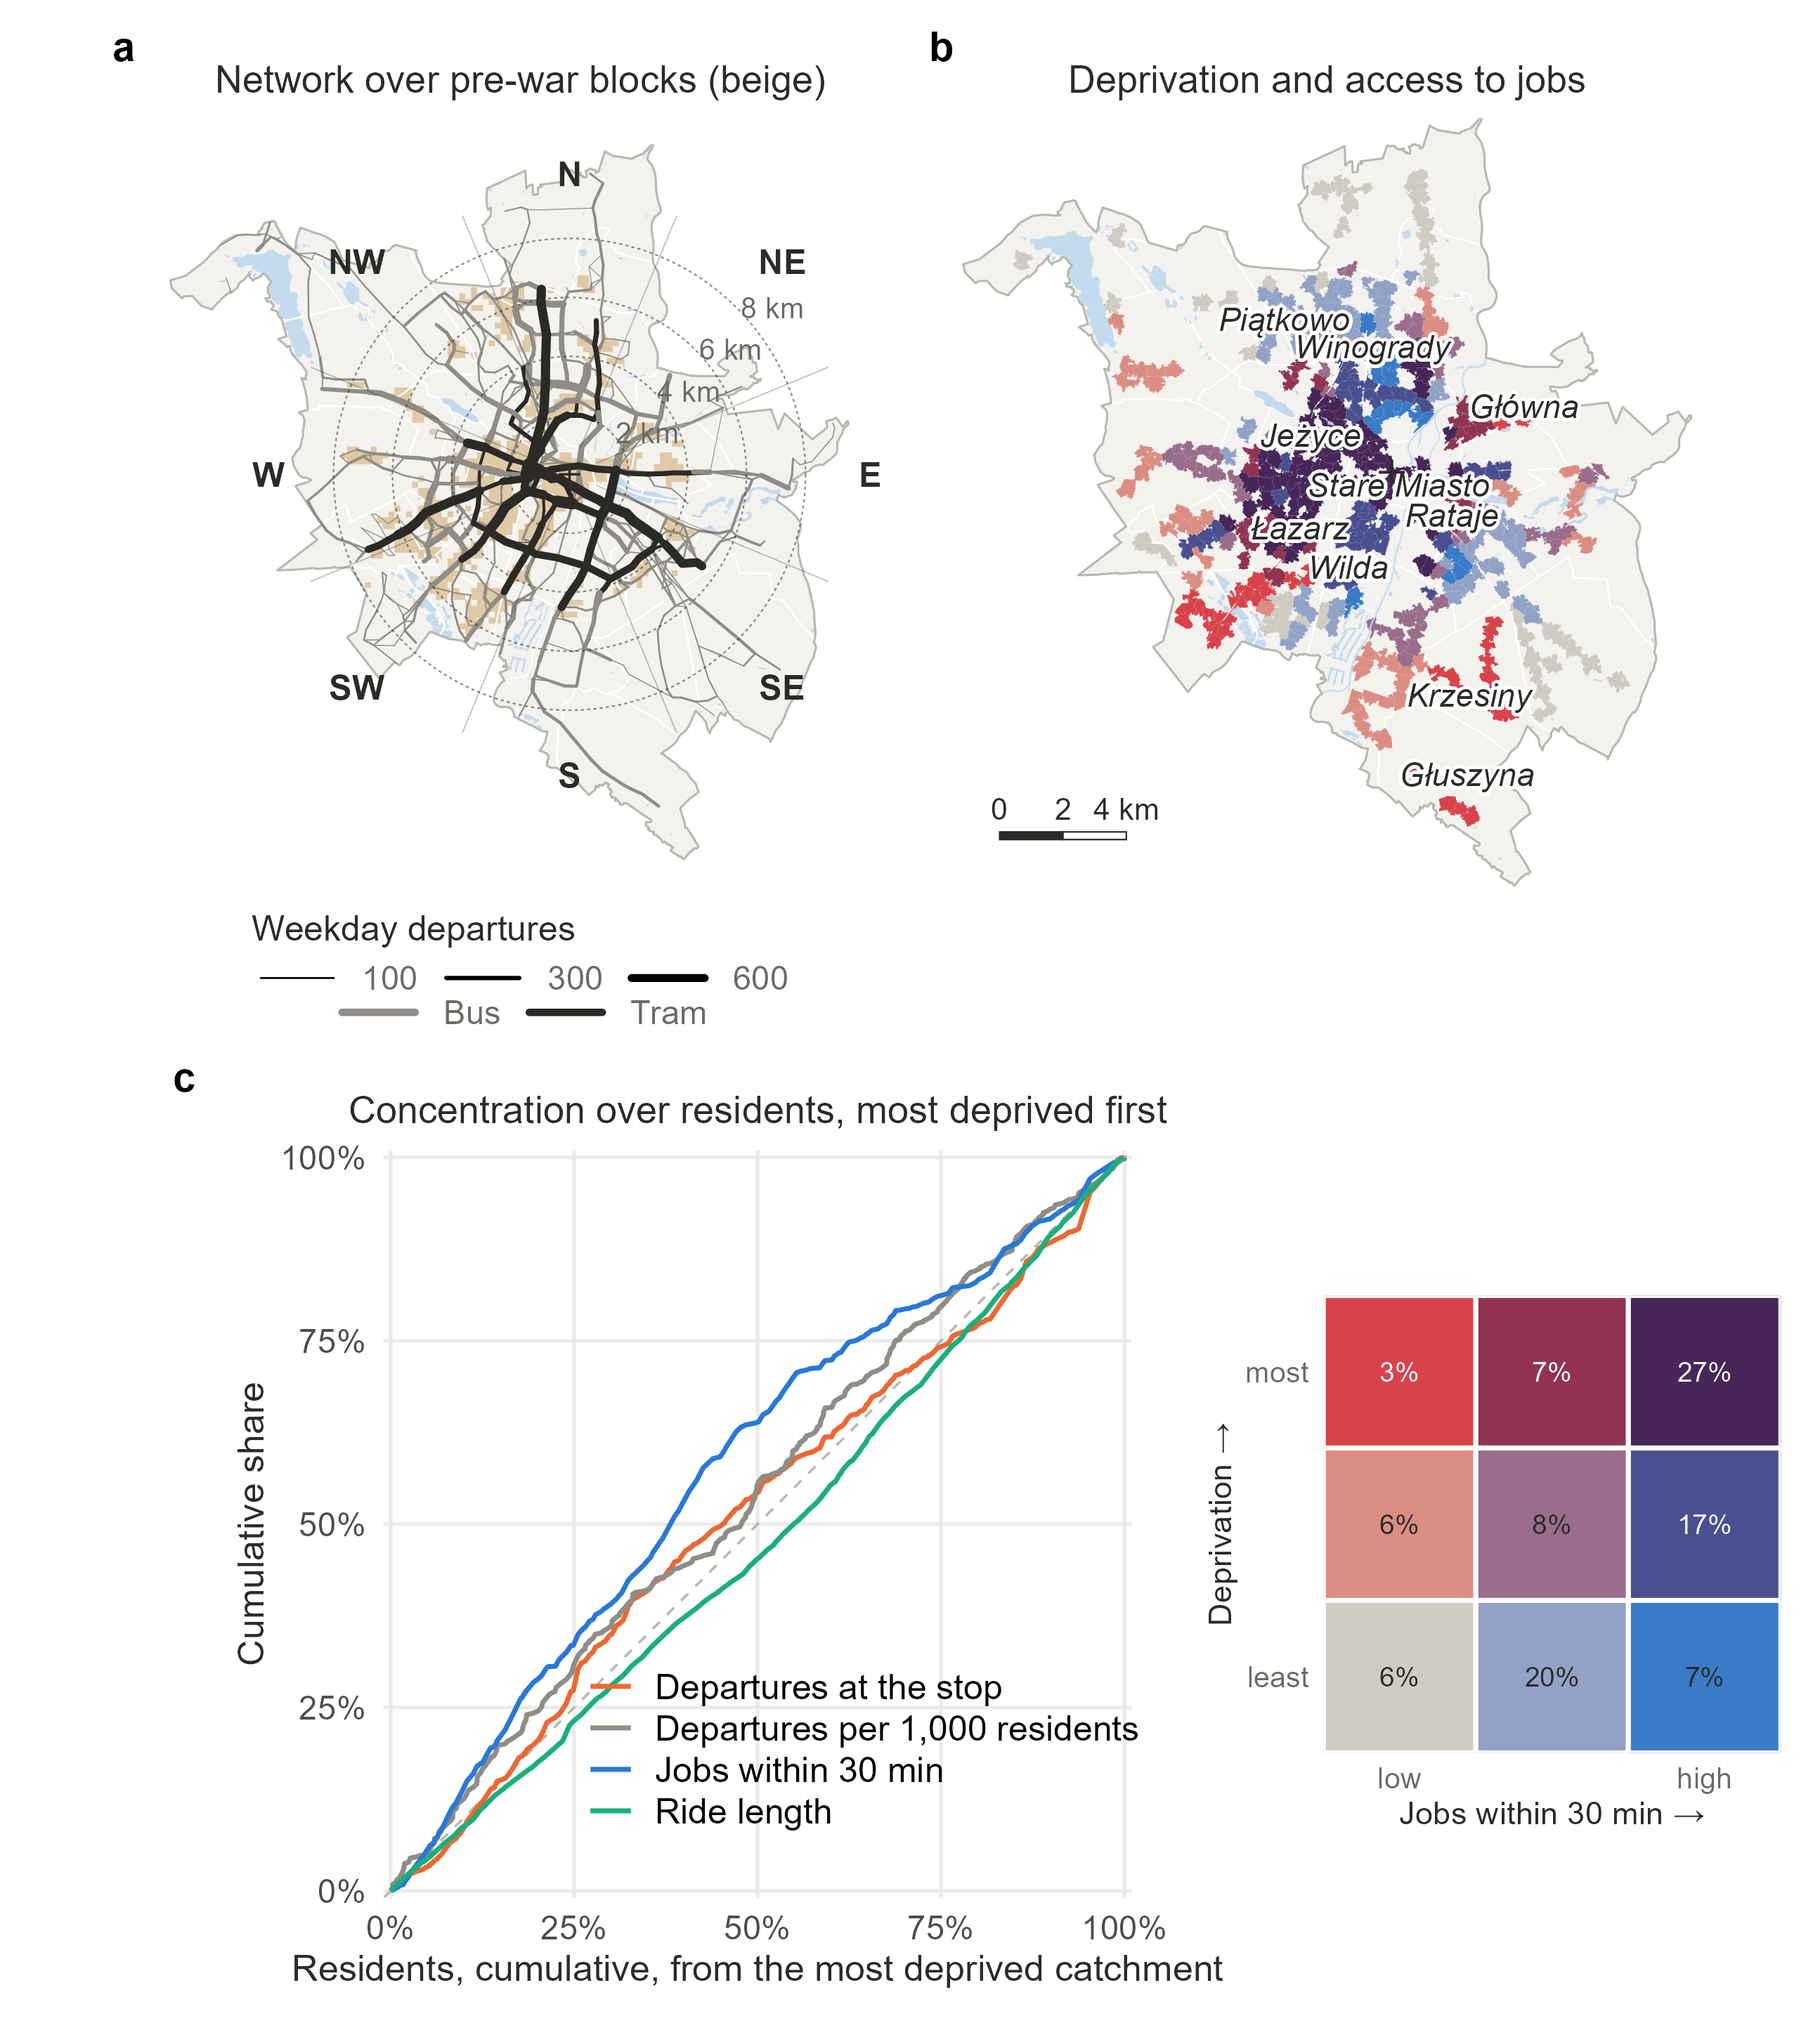
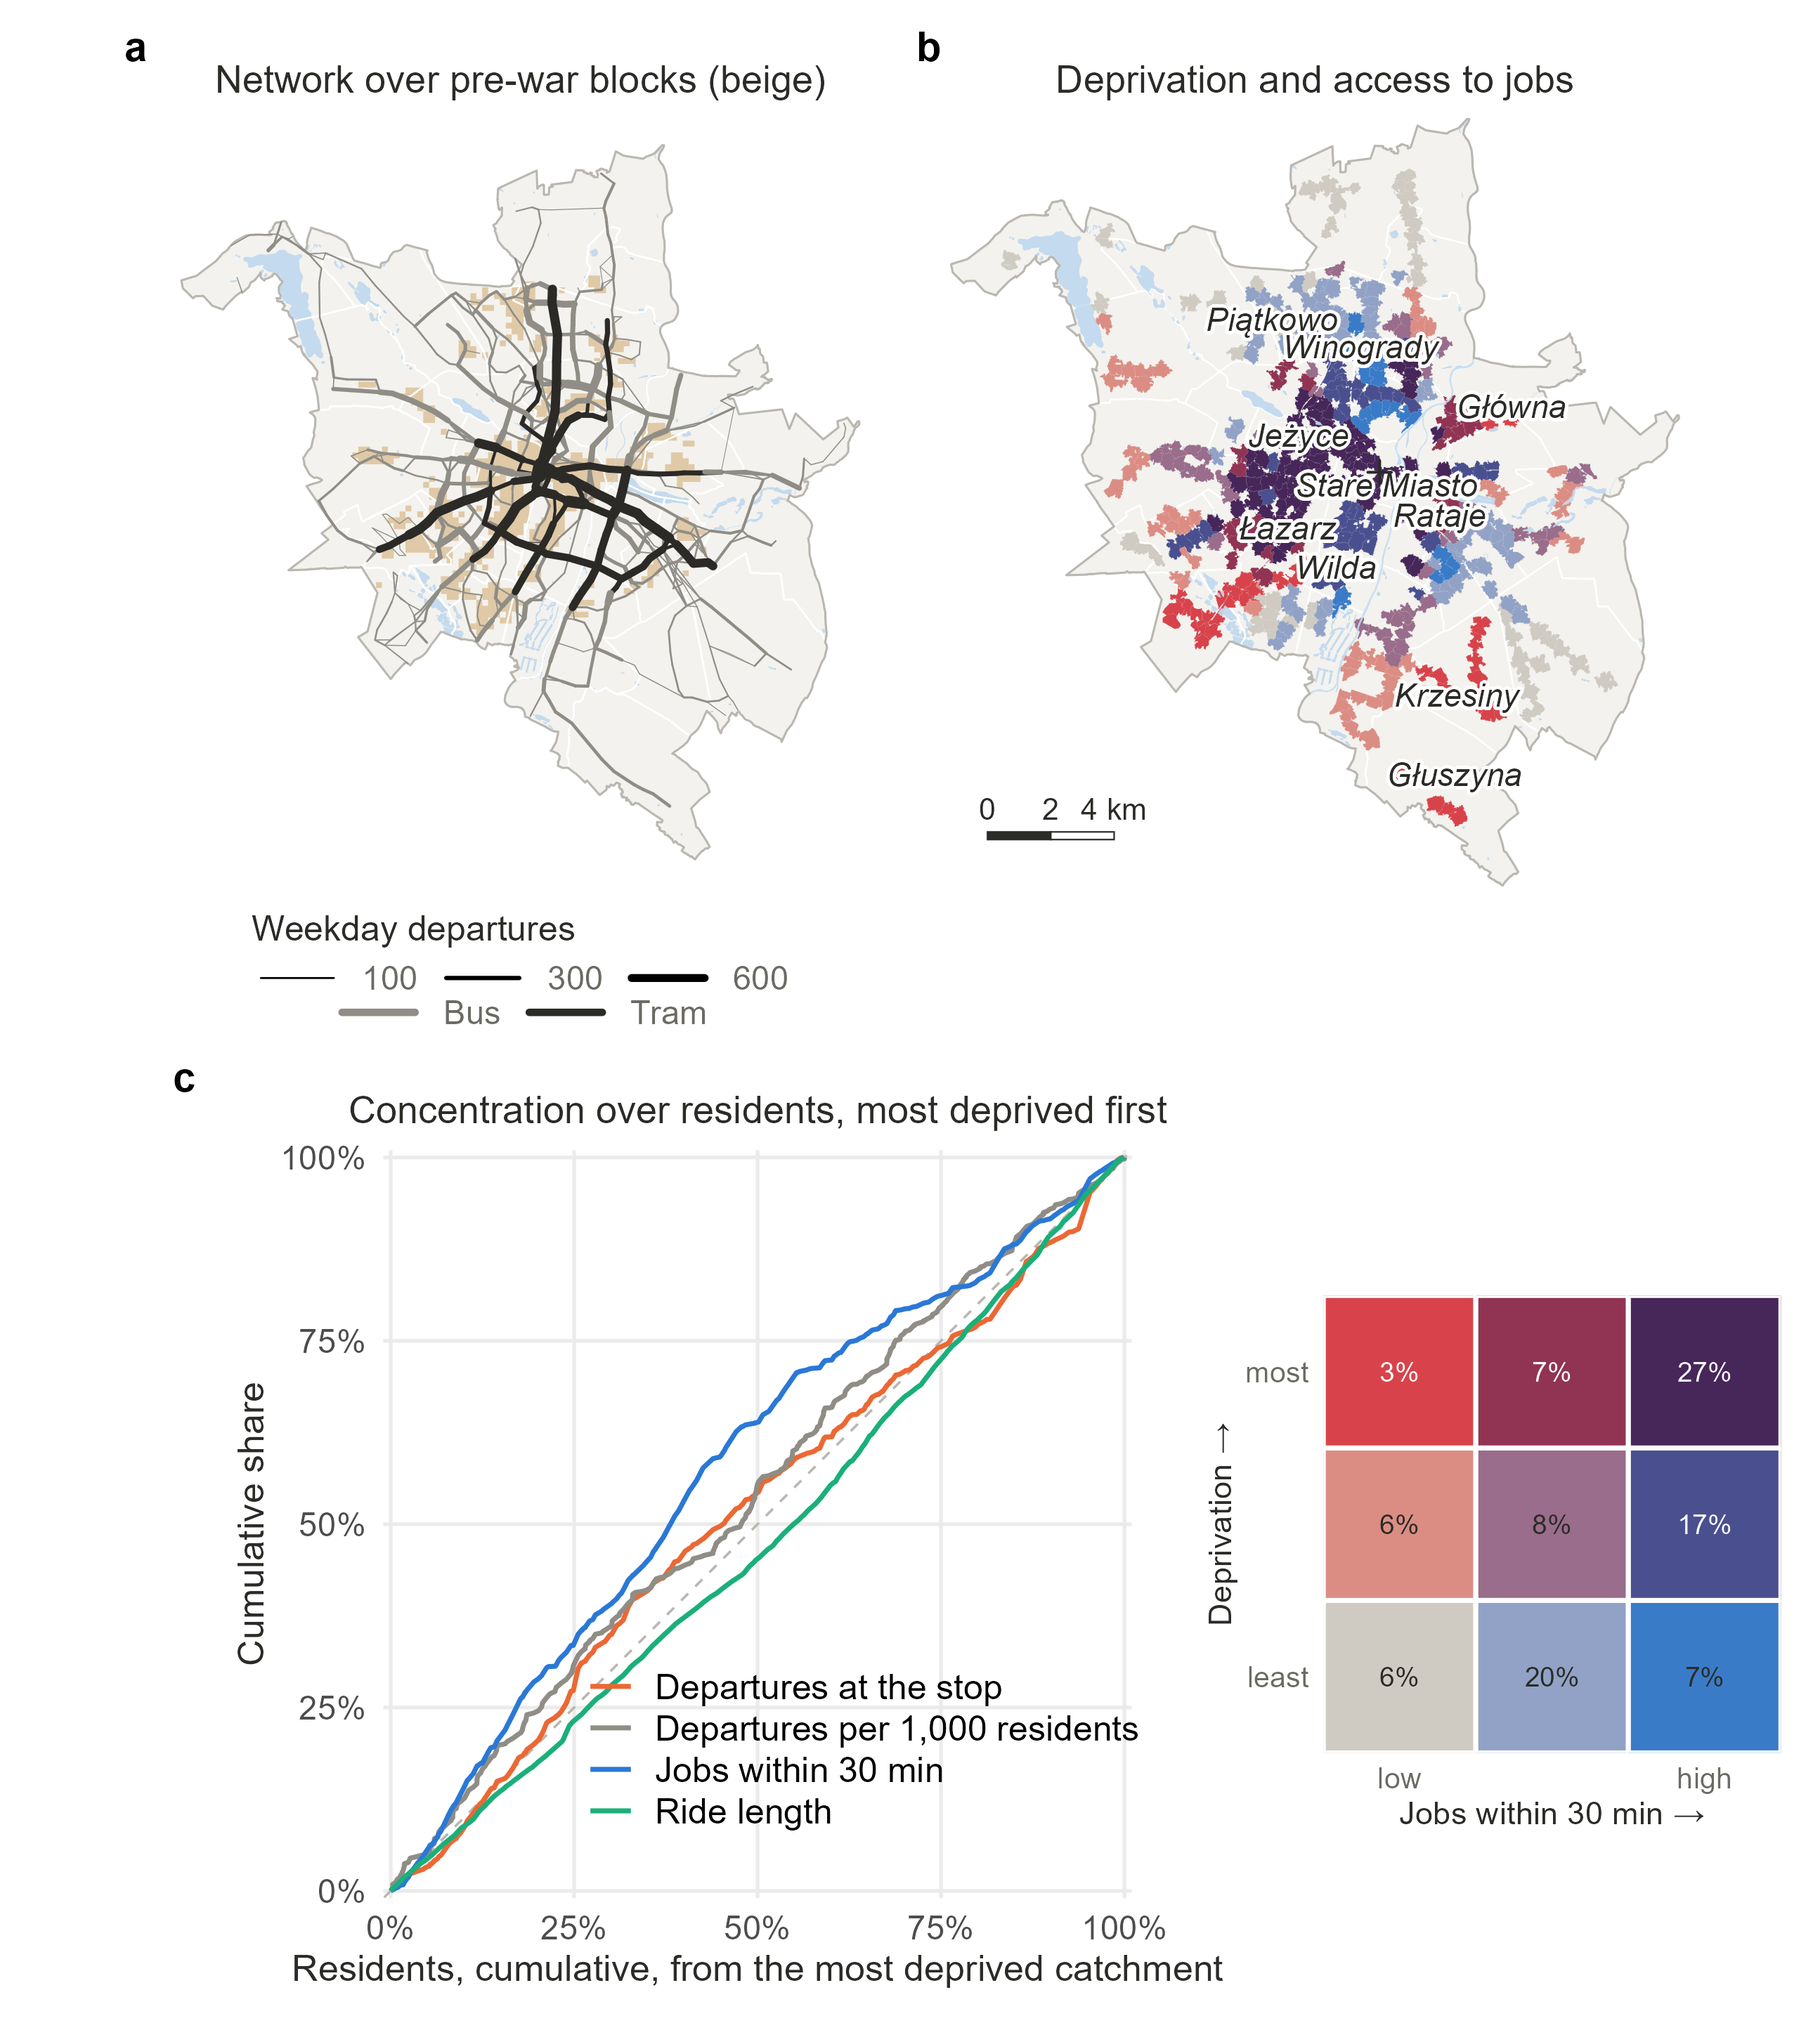
Positive control with residents aged 61+ (section 89); Figure 8 with ten measures
Stage 8 section 89 sets the share of residents aged 61 and over, counted at the address, against catchment deprivation in the full-step model of section 56 (supplementary Table S10). Figure 8 (stage 9 section 64) now shows the ten measures of the main text; all 22 stay in Table S7. Figures 3 and 8 updated in figures/.

diff --git a/README.md b/README.md
@@ -96,7 +96,7 @@ flowchart LR
 | [`05_passenger_counts.R`](scripts/05_passenger_counts.R) | ingest, 40–42, 22, 23, 58 | Ingest, trip-level cleaning, stop-to-stop flows by three estimators, expansion, same-trip indices, descriptive checks. |
 | [`06_destinations_routes_access.R`](scripts/06_destinations_routes_access.R) | 45–47, 50, 51, 53, 54 | Destinations against a network baseline, interchanges and transfers, routes, timetable-based access. |
 | [`07_usage_responses.R`](scripts/07_usage_responses.R) | 43, 48, 52, 61 | Tests stated before modelling, early boardings, responses to leave days, service cuts and weather, tram and bus. |
-| [`08_gaps_inference.R`](scripts/08_gaps_inference.R) | 56, 55, 59, 63, 65–68, 73–88 | The 22 gaps raw, net of position and net of land use and population; decomposition; CR2-Satterthwaite inference, wild cluster bootstrap, measurement error, equivalence; spatial placebo; equity and counterfactual geographies; estimator checks; offer and use; peripheral deprivation with neighbourhood-level randomisation inference; the early offer and its use; what location stands for (jobs nearby, structure of service); segregation by destination (geography, network, use); sharing the network on corridors, lines and stops, against deprivation scattered at random and the map turned or mirrored; usage and the link to the centre at the periphery; the offer weighted by departures or by boardings; the supplement tables of sharing, re-allocations and the periphery; injected rider-level differences, to show what the same-trip indices and the destination estimator could detect; Figures 4–7. |
+| [`08_gaps_inference.R`](scripts/08_gaps_inference.R) | 56, 55, 59, 63, 65–68, 73–89 | The 22 gaps raw, net of position and net of land use and population; decomposition; CR2-Satterthwaite inference, wild cluster bootstrap, measurement error, equivalence; spatial placebo; equity and counterfactual geographies; estimator checks; offer and use; peripheral deprivation with neighbourhood-level randomisation inference; the early offer and its use; what location stands for (jobs nearby, structure of service); segregation by destination (geography, network, use); sharing the network on corridors, lines and stops, against deprivation scattered at random and the map turned or mirrored; usage and the link to the centre at the periphery; the offer weighted by departures or by boardings; the supplement tables of sharing, re-allocations and the periphery; injected rider-level differences, to show what the same-trip indices and the destination estimator could detect; a positive control with the share of residents aged 61 and over; Figures 4–7. |
 | [`09_figures.R`](scripts/09_figures.R) | 57, 60, 64, 71, 70, 69, 72 | Main-text figures 2, 3 and 8, maps for the supplement and the graphical abstract (Figures 4–7 are drawn by sections 75, 74 and 81). |
 
 Helpers in [`R/`](R): `setup.R` (paths and the section runner), `od_expand.R` (expansion of counted flows to all operated trips), `cr_inference.R` (CR2 standard errors with Satterthwaite degrees of freedom, effective clusters, wild cluster bootstrap), `seg_index.R` (indices of sharing the network and the turned maps of deprivation), `map_style.R` (shared cartographic style) and `tissue_descriptors.R` (land-use descriptors for cells and catchments).
